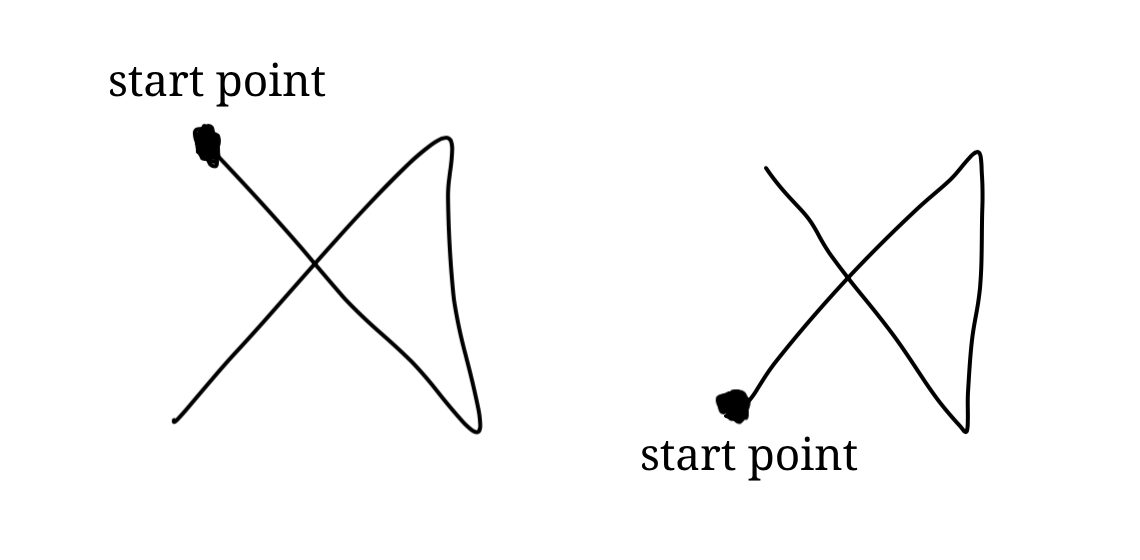
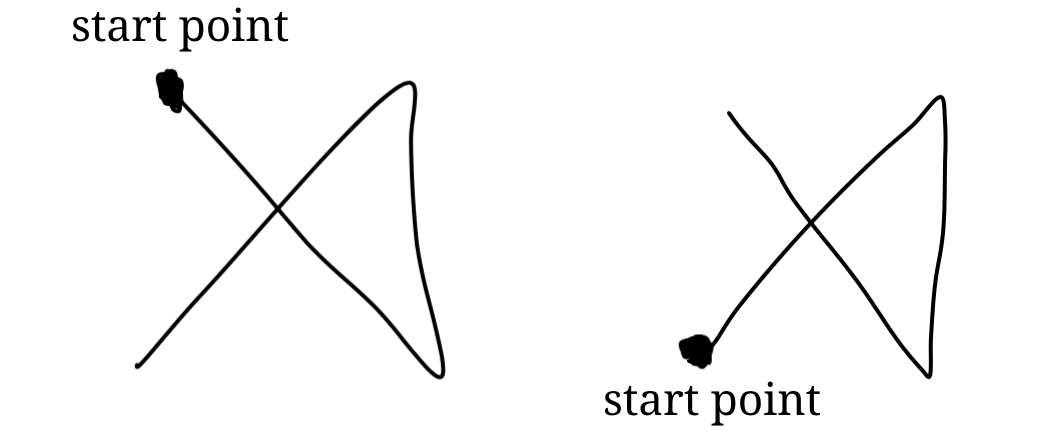
pset4

diff --git a/classes/2020-fall-6810/pset4-multitouch-application.html b/classes/2020-fall-6810/pset4-multitouch-application.html
@@ -69,58 +69,92 @@ Now that you have the Processing code that reads and visualizes sensing data in 
 
 <h3>(1) Gesture Recognizer</h3>
 Let's first build a finger gesture recognizer.<br>
-The goal here is to be able to draw with your finger onto your multi-touch pad and have the multi-touch pad recognize what was drawn. For instance, if you swipe from left to right, your code should recognize that you made this gesture and if draw an 'A' your code should know that an 'A' was drawn.<br>
-This part will be built on top of your PSet3 Processing code. <br><br>
+The goal here is to be able to draw with your finger onto your multi-touch pad and have the multi-touch pad recognize what was drawn. For instance, if you swipe from left to right, your code should recognize that you made this gesture and if you draw an 'A' your code should know that an 'A' was drawn.<br><br>
 
-<h4>$1 Unistroke Recognizer Library</h4> <br>
+<h4>Understanding the $1 Unistroke Recognizer</h4> <br>
 
-<b>Import $1 Unistroke Recognizer Library to Processing</b><br>
 Luckily, you don't have to implement the gesture recognizer from scratch.<br>
-Instead, you can use a Processing library called <b>$1 Unistroke Recognizer</b>.<br>
-Start by importing the library by going to <b>Sketch -> Import Library</b> and finding it through the search bar.<br><br>
+Instead, you can use the <b>$1 Unistroke Recognizer</b>, which is also available as a Processing library.<br>
+This gesture recognizer was first published at our HCI conference ACM UIST and you can find the <a href="http://faculty.washington.edu/wobbrock/pubs/uist-07.01.pdf">UIST 2017 Paper here</a>.<br>
+Before we get to the implementation, let's briefly review what gestures this recognizer can detect and what gestures cannot be detected.<br><br>
 
-<img src="images/pset4/$1 Unistroke Recognizer.png" width="650px"> <br><br>
+<b>What Gestures can the $1 Unistroke Recognizer Detect?</b><br>
 
-<b>How does the $1 Unistroke Recognizer Work?</b><br>
-This gesture recognizer was first published at our main HCI conference ACM UIST and you can find the <a href="http://faculty.washington.edu/wobbrock/pubs/uist-07.01.pdf">UIST 2017 Paper here</a> and the <a href="http://depts.washington.edu/acelab/proj/dollar/index.html">website here</a> if you are interested to read more.<br>
-$1 Unistroke Recognizer is a 2-D single-stroke recognizer designed for rapid prototyping of gesture-based user interfaces. <br>
-It is called "$1" because in machine learning terms, $1 is an instance-based nearest-neighbor classifier with a 2-D Euclidean distance function, i.e., a geometric template matcher. <br><br>
+<i>2D Recognizer:</i> First, the $1 Unistroke Recognizer is a <b>2D recognizer.</b> Therefore, you can use it for your 2D multi-touch pad but you cannot use it with a hardware setup, such as the Kinect, where you can move you finger in 3D space in the air.<br><br>
 
-Since it is an unistroke recognizer, there are some limitations you should take into consideration when design your finger gestures. <br>
-First, the gesture should be performed by one finger and contains only one continuous stroke. <br>
-For example, for the following 2 gestures designed for letter "A", only the left one can be recognized correctly by the algorithm as the one on the right contains more than one stroke: <br>
+<i>Unistroke:</i> Second, the recognizer is a 'unistroke' recognizer. What this means is that it can only recognize gestures that are made by <b>one finger</b> in <b>one continous stroke</b>. For instance, consider the 2 gestures shown below designed for the letter "A". The left one is written in one continous stroke and thus can be recognized by the $1 recognizer. The right one, however, is written in two separate strokes and thus cannot be recognized. Similarly, you can recognize a single finger swipe left/right gesture, but you cannot recognize <span style="color:red">a zoom gesture with two fingers since that would require combining two separate strokes into one gesture</span>.<br><br>
+
 <img src="images/pset4/drawing-pattern-requirement-1.png" width="500px"> <br><br>
 
-In addition, the algorithm recognizes the stroke direction but ignores the stroke "orientation".<br>
-This is critical when implementing multiple gestures.<br>
-For example, the algorithm would be able to distinguish the following 2 finger gestures: <br>
+<i>Stroke Direction:</i> In addition, the algorithm recognizes the stroke direction, <span style="color:red">i.e. with which point/line you start your stroke.</span> For example, the two gestures shown below are visually identical but in the first gesture we start on the top left, while in the second gesture we start on the bottom left. Therefore, although visually the same gesture, the $1 algorithm is able to distinguish them as two different gestures. <span style="color:red"> Note that this is only possible because the algorithm ignores the stroke 'orientation'. If the algorithm would consider the stroke orientation, both gestures would be the same. (is this really true? I can't make them match up)</span><br><br>
+
 <img src="images/pset4/drawing-pattern-requirement-3.png" width="500px"> <br><br>
 
-However, it will likely recognize these following 2 finger gestures as the same gesture: <br>
+<i>Stroke Orientation:</i> In addition, the algorithm <span style="color:red">ignores the stroke "orientation" (what does ignore mean? it doesn't matter how it's oriented and it will still be recognized?)</span>.<br>
+However, it will likely recognize the 2 finger gestures shown below as the same gesture. <span style="color:red">(why? because it ignores orientation or it considers orientation?).</span><br><br>
+
 <img src="images/pset4/drawing-pattern-requirement-2.png" width="500px"> <br><br>
 
-For more details of the $1 Unistroke Recognizer library, you can go to the <a href="https://github.com/nok/onedollar-unistroke-recognizer">library's webpage</a>. <br>
-There is also a demo website for the $1 Unistroke Recognizer, where you can test the library's functionality and get a sense of how it works. The link is <a href="http://depts.washington.edu/acelab/proj/dollar/index.html">here</a>.<br><br>
+<i>$1 Dollar:</i> Finally, the recognizer is called <b>"$1"</b> because in machine learning terms, <span style="color:red">$1 is an instance-based nearest-neighbor classifier with a 2-D Euclidean distance function, i.e., a geometric template matcher.</span> <br><br>
+
+<b>Try the Gesture Recognizer for yourself on the Demo Webpage</b><br>
+We recommend before you move on, you try out the interactive demo of the $1 Unistroke Recognizer that you can <a href="http://depts.washington.edu/acelab/proj/dollar/index.html">find here on this website</a>. Scroll down to the 'Demo' section and you see 16 different gestures you can draw into the gray window on the right side. Draw each of the gestures once to get a feel for how different gestures are designed and how well they can be classified. After you drew a gesture, you will see its classified name at the top of the window.<br><br> 
+
+<a href="http://depts.washington.edu/acelab/proj/dollar/index.html"><img src="images/pset4/one-dollar-demo.png" width="700px"></a> <br><br>
+
+<h4>Processing Library for $1 Unistroke Recognizer</h4> <br>
+
+Lucky for us, the authors of the UIST'07 paper also provide a Processing library with all the functionality you saw above.<br>
+Start by importing the <b>$1 Unistroke Recognizer</b> library by going to <b>Sketch -> Import Library</b> and finding it through the search bar.<br>
+Note that this part will be built on top of your PSet3 Processing code.<br><br>
+
+<img src="images/pset4/$1 Unistroke Recognizer.png" width="700px"> <br><br>
+
 
 <h4>Add finger gesture </h4> <br>
-Once import the $1 Unistroke Recognizer library, you can add your customized finger gestures via the following function: <br><br>
+To create a new finger gesture, you can use the following function:<br><br>
 <pre> OneDollar.learn(String gesture-name, int[] x-y-coordinates); </pre> <br>
 
-You can obtain the x-y-coordinates for your desired finger gesture by either using your finger and draw the pattern on the multi-touch pad, or more conveniently using your mouse and trackpad + mouseDragged() function, and print out & record all the triggered points of your finger gesture. <br><br>
-<img src="images/pset4/add-gesture.png" width="650px"> <br><br>
+To obtain the x-y-coordinates for your gesture you have two options:
+<ol>
+	<li><i>Finger on Multi-Touch Pad:</i> You can use your finger and draw the pattern on the multi-touch pad while recording the x-y coordinates from the gesture start to end.</li>
+	<li><i>Mouse on Screen:</i> Alternatively (and perhaps more conveniently), you can use <span style="color:red">your mouse to draw onto the Processing Canvas and use the mouseDragged() function to record all the points of the mouse gesture.</span></li>
+</ol> 
 
-<h4>Bind finger gesture to callback function </h4> <br>
+Below you see a recording of all the coordinates for <span style="color:red">one of our gestures (which gesture is this?).</span><br><br>
 
-Once add the customized finger gesture, you would go ahead and bind it to a callback function, which will be triggered every time the algorithm detects the corresponding finger gesture.<br>
+<img src="images/pset4/add-gesture2.png" width="650px"> <br><br>
+
+<h4>Connect Finger Gesture to a Callback Function </h4> <br>
+
+Now that you have added a custom finger gesture, you next have to define which function should be called when the gesture is being detected. Such a function is called a <b>callback function</b> and it will be triggered every time the algorithm detects the corresponding finger gesture.<br><br>
 
 You can bind the finger gesture to a callback function via the following function: <br><br>
+
 <pre> OneDollar.bind(String gesture-name, String callback-function-name); </pre><br>
 
-Then implement the callback function :<br><br>
+<span style="color:red">Does the function name above include the parameters and parenthesis?</span><br><br>
+
+Next, you need to implement the callback function.<br>
+The <span style="color:red">callback function always has to be in the format as shown below, i.e. contain the following parameters and return void.<br>
+The function name and parameter names, however, are up to you.</span><br><br>
+
 <pre> void foo(String gesture-name, float percentOfSimilarity, int startX, int startY, int centroidX, int centroidY, int endX, int endY){
-    // do something fun
+    // do something when the gesture is detected
 }
 </pre> <br>
+
+The parameters contain the following:<br>
+<i>Percent of Similarity:</i> This is how confident the recognizer is that it actually detected the right gesture. If this contains '100' the algorithm is very confident, however, if it contains '50' the algorithm is not very confident that this is correct. <span style="color:red">is there a lowest possible value?</span><br>
+<i>Start X/Y:</i> This is the start position of the gesture on the multi-touch pad <span style="color:red">are these absolute values on the multi-touch pad, i.e. 0,0 is top left corner? how does it know this?</span> <br>
+<i>Centroid X/Y:</i> <span style="color:red">what is this good for?</span><br>
+<i>End X/Y:</i> <span style="color:red">same question as above.</span><br><br>
+
+
+
+
+
+
 
 <h4>Track the finger gestures </h4> <br>
 
